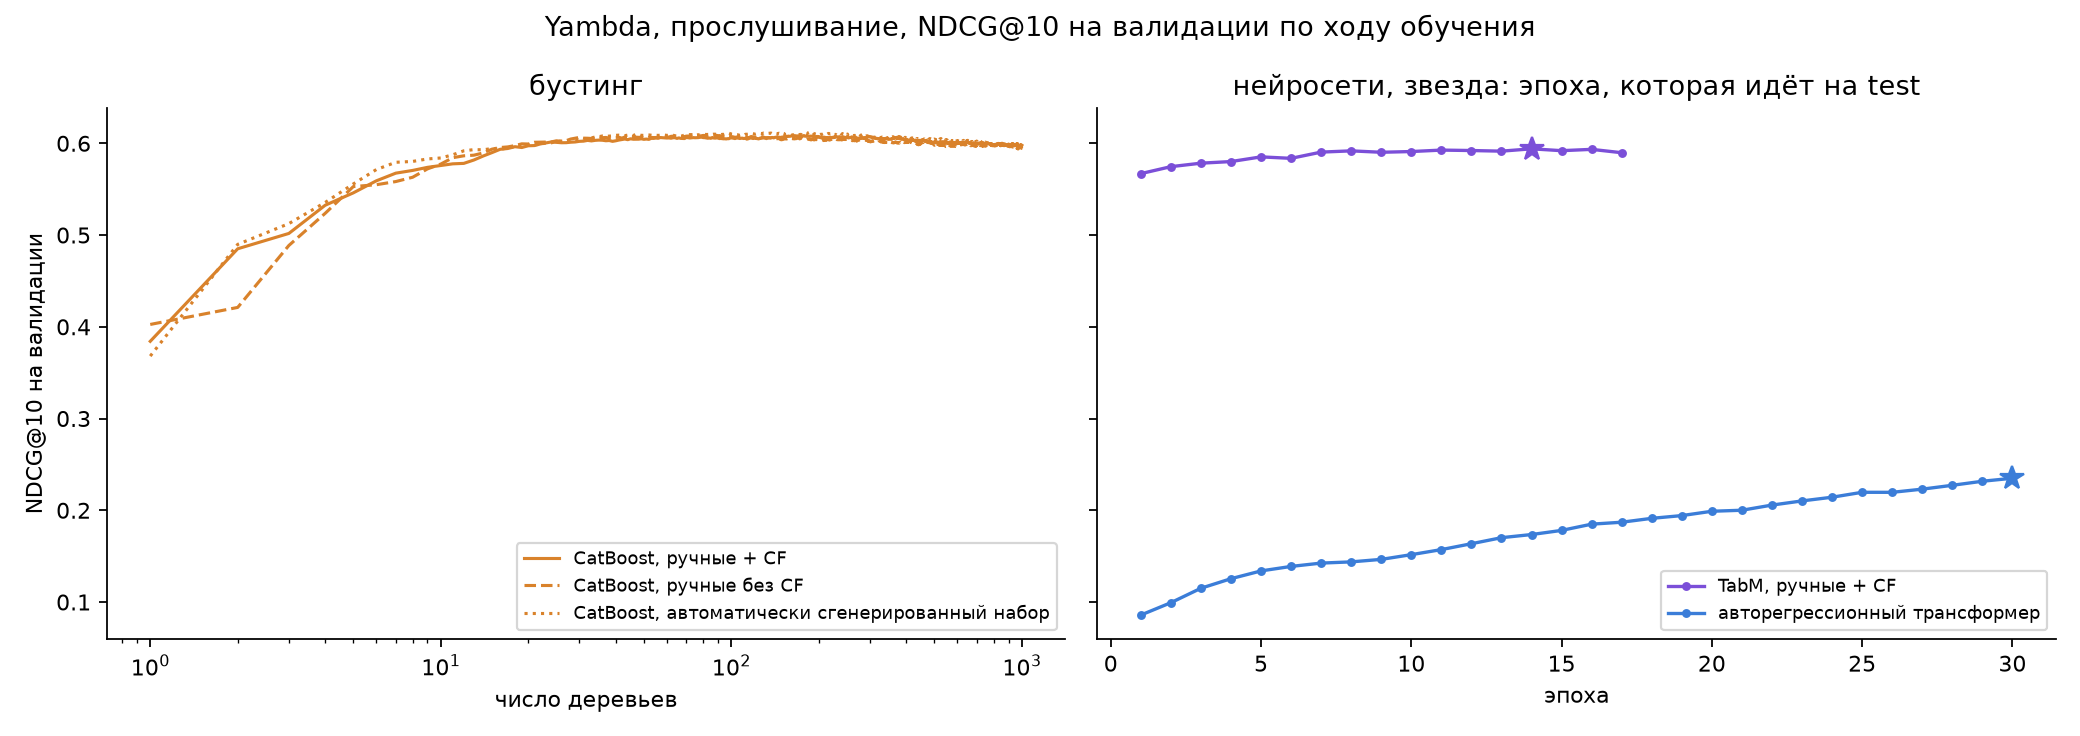
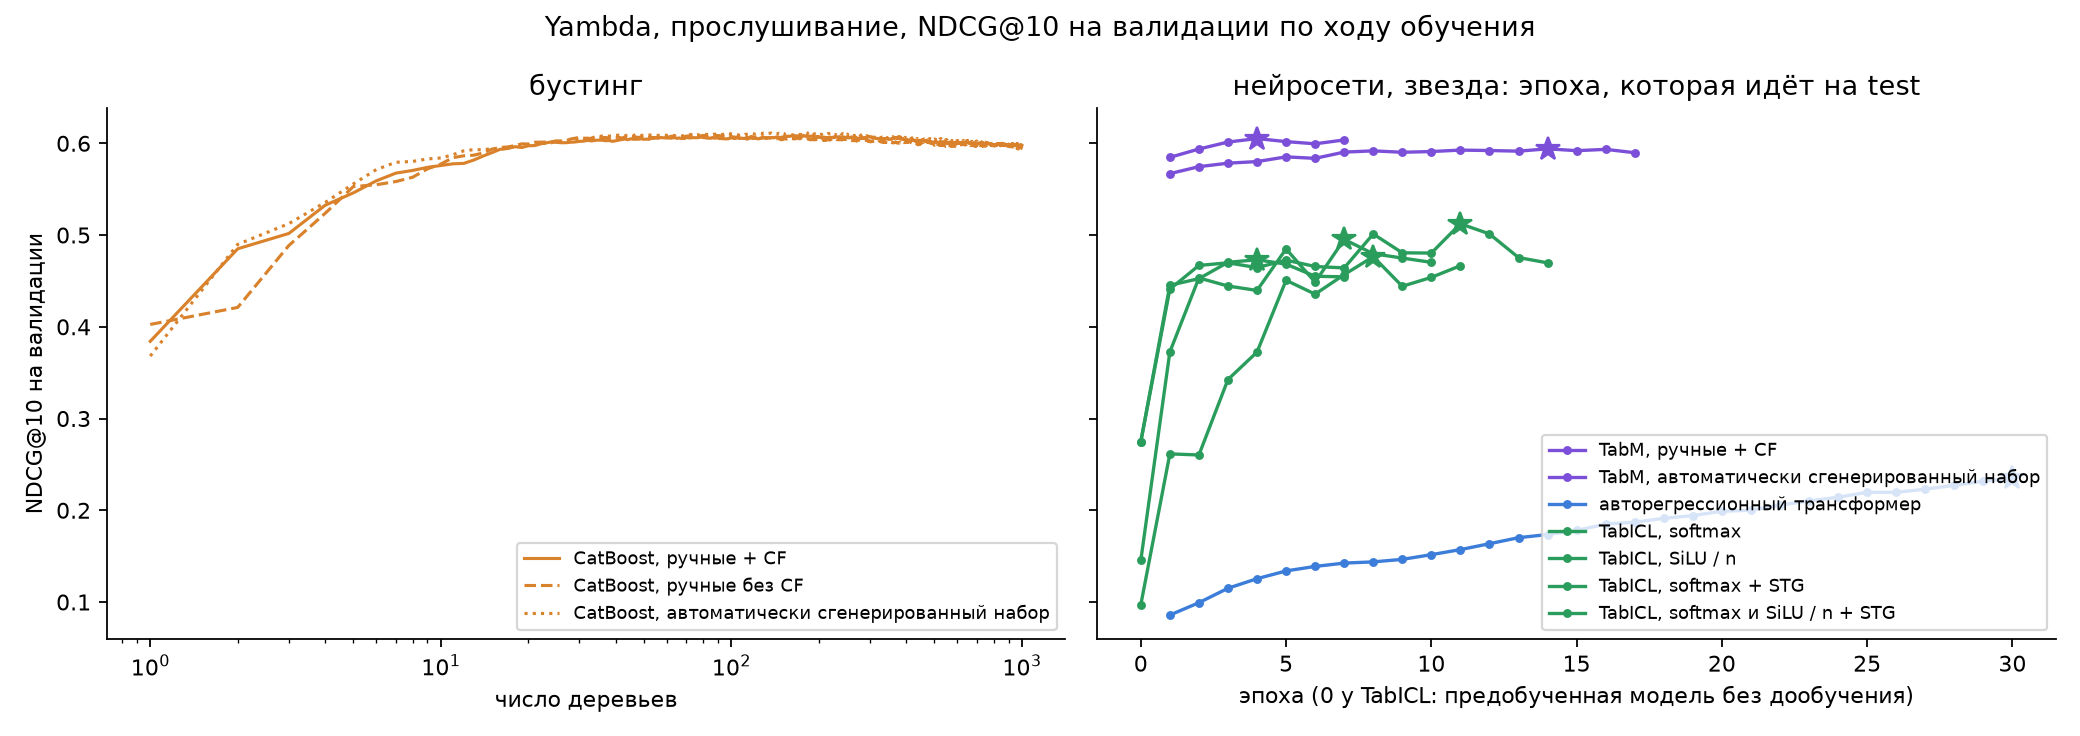
TabICL variants results, probes and conclusions

diff --git a/report.md b/report.md
@@ -88,9 +88,9 @@
 Все модели я сравнивал на одних и тех же 200 тестовых пользователях, у каждого 300 кандидатов. TabICL считается долго, поэтому тест у него только на них, и остальные модели я считал на тех же, чтобы сравнение было честным.
 ### KION
 ![Метрики на тесте KION](5_report/figures/kion_test_metrics.png)
-*Рис. 1. Метрики на тесте KION. Оранжевым бустинг, синим нейросети, серым популярность и EASE. В скобках число признаков.*
+*Рис. 1. Метрики на тесте KION. Оранжевым бустинг, фиолетовым TabM, синим трансформер, зелёным TabICL, серым популярность и EASE. В скобках число признаков.*
 
-На KION лучше всех бустинг со скорами EASE и kNN. Без этих скоров он опускается до уровня самого EASE, так что коллаборативная фильтрация даёт ему заметную часть качества. Автоматически сгенерированный набор признаков хуже ручного. TabM на тех же признаках, что и бустинг, чуть лучше бустинга. А вот трансформер над историей проиграл даже популярности.
+На KION лучше всех бустинг со скорами EASE и kNN. Без этих скоров он опускается до уровня самого EASE, так что коллаборативная фильтрация даёт ему заметную часть качества. Автоматически сгенерированный набор признаков хуже ручного. TabM на тех же признаках, что и бустинг, чуть лучше бустинга. А вот трансформер над историей проиграл даже популярности. TabICL лучше трансформера, но тоже чуть ниже популярности. Из его вариантов лучше всех обычный softmax: свёртка без нормировки, гейты и их сочетание дают меньше.
 
 ![Валидация по ходу обучения KION](5_report/figures/kion_val_curves.png)
 *Рис. 2. NDCG@10 на валидации по ходу обучения: слева по числу деревьев CatBoost, справа по эпохам нейросетей. Звездой отмечена эпоха, которая идёт на тест.*
@@ -99,6 +99,8 @@
 *Рис. 3. Линейные пробы на KION: R² ridge-регрессии из скрытого состояния пары в каждый ручной агрегат на отложенной половине пар.*
 
 Чтобы посмотреть, что трансформер считает сам, я поставил линейные пробы: ridge-регрессию из скрытого состояния пары в каждый ручной агрегат. Лучше всего читается число досмотров фильма за всё время. Его сеть выучивает через эмбеддинг и смещение фильма, которые обучаются на метках всех пользователей. Счётчики пользователя читаются хуже. Число событий пары почти не читается, хотя это просто количество одного фильма в истории пользователя. Доли жанра и страны в истории, то есть деление одного счётчика на другой, тоже почти не читаются.
+
+У TabICL пробы выглядят иначе. Счётчики пользователя и фильма читаются из его состояния хорошо, число событий пары тоже, потому что строки контекста с тем же фильмом и тем же пользователем стоят у него на входе. Почти всё это есть уже у предобученной модели до дообучения, то есть счёт он принёс из предобучения. Хуже всего читаются доли жанра и страны и конверсия фильма, и дообучение их почти не поднимает: деление он так и не собирает. Гейты на KION закрыли бит «смотрел ли пользователь этот фильм», вместе с ним из состояния пропало число событий пары, и этот вариант на тесте оказался худшим.
 
 ![Важность блоков признаков KION](5_report/figures/kion_importance.png)
 *Рис. 4. Просадка NDCG@10 на валидации, если перемешать одну колонку, просуммированная по блокам признаков. Модель CatBoost на ручных признаках без скоров EASE и kNN.*
@@ -111,7 +113,7 @@
 ![Метрики на тесте Yambda, лайк](5_report/figures/yambda_like_test_metrics.png)
 *Рис. 6. Метрики на тесте Yambda, таргет: лайк.*
 
-На Yambda разрыв ещё больше. На прослушиваниях все три варианта бустинга почти одинаковые и сильно впереди, TabM на тех же признаках немного отстаёт от них, за ними EASE, потом трансформер, и в самом конце популярность. Лайков на порядок меньше, чем прослушиваний, и там бустинг впереди уже в несколько раз, а EASE, трансформер и популярность почти неразличимы. Автоматически сгенерированный набор здесь работает так же, как мой обычный.
+На Yambda разрыв ещё больше. На прослушиваниях все три варианта бустинга почти одинаковые и сильно впереди, TabM на тех же признаках немного отстаёт от них, за ними EASE, потом трансформер, и в самом конце популярность. Лайков на порядок меньше, чем прослушиваний, и там бустинг впереди уже в несколько раз, а EASE, трансформер и популярность почти неразличимы. Автоматически сгенерированный набор у бустинга здесь работает так же, как мой обычный, а TabM на нём немного обходит бустинг на обоих таргетах. TabICL на прослушиваниях чуть хуже EASE и сильно лучше трансформера, а на лайках обходит EASE и трансформер в несколько раз, но всё равно примерно вдвое отстаёт от бустинга. Среди его вариантов на прослушиваниях гейты чуть лучше softmax, остальные хуже, а на лайках softmax лучше всех.
 
 ![Важность блоков признаков Yambda, прослушивание](5_report/figures/yambda_listen_importance.png)
 *Рис. 7. Важность блоков признаков на Yambda, прослушивание.*
@@ -127,7 +129,7 @@
 ![Линейные пробы Yambda, прослушивание](5_report/figures/yambda_listen_probes.png)
 *Рис. 10. Линейные пробы на Yambda, прослушивание.*
 
-И всё равно трансформер проигрывает бустингу в разы. По пробам число прослушиваний пары почти не читается из его состояния, хотя все эти прослушивания стоят у него на входе. Правда, на прослушиваниях трансформер не дошёл до плато, валидация росла до последней эпохи (рис. 9). Но к концу она прибавляла так мало, что до бустинга ему пришлось бы учиться ещё в несколько раз дольше.
+И всё равно трансформер проигрывает бустингу в разы. По пробам число прослушиваний пары почти не читается из его состояния, хотя все эти прослушивания стоят у него на входе. Правда, на прослушиваниях трансформер не дошёл до плато, валидация росла до последней эпохи (рис. 9). Но к концу она прибавляла так мало, что до бустинга ему пришлось бы учиться ещё в несколько раз дольше. У TabICL число прослушиваний пары читается, а доли исполнителя и альбома в истории и конверсия трека почти нет, как и на KION.
 ### Размер моделей
 ![Размер модели и качество](5_report/figures/sizes.png)
 *Рис. 11. NDCG@10 на тесте против числа обучаемых чисел. У CatBoost это число деревьев, умноженное на 64 листа и 6 порогов, у EASE матрица «товар на товар», у популярности одно число на товар.*
@@ -140,6 +142,8 @@
 
 Вторая – выразительность. На Yambda трансформер видит всю нужную историю, но не собирает из неё ни число повторов, ни доли, то есть ни количество, ни деление. Перебор агрегатов эти дыры не закрывает, и размер модели здесь ни при чём.
 
-Но проигрывать аггрегациям глубокая модель не обязана. Аггрегаты выигрывают, потому что человек заранее вложил в признаки знание о том, какие агрегаты нужны: сколько раз, за какое окно, какая доля. У глубокой модели такое знание может прийти из предобучения. TabICL предобучен на синтетических таблицах и приходит к задаче уже с прайорами: как выглядят распределения колонок, как признаки одной строки взаимодействуют между собой, как предсказать строку по похожим строкам рядом. Строки других пользователей в контексте дают ему статистику, которой нет в истории, свёртка без нормировки сохраняет количество, а гейты отключают бесполезные колонки. Модели без таких прайоров и без контекста, даже глубокие, проигрывают: трансформеру над историей приходится с нуля и по одному датасету учить и сами операции, и то, какие из них нужны. Поэтому учить нужно распределения на каждом уровне, а прайоры для этого брать из предобучения на синтетике.
+Но проигрывать аггрегациям глубокая модель не обязана. Аггрегаты выигрывают, потому что человек заранее вложил в признаки знание о том, какие агрегаты нужны: сколько раз, за какое окно, какая доля. У глубокой модели такое знание может прийти из предобучения. TabICL предобучен на синтетических таблицах и приходит к задаче уже с прайорами: как выглядят распределения колонок, как признаки одной строки взаимодействуют между собой, как предсказать строку по похожим строкам рядом. Строки других пользователей в контексте дают ему статистику, которой нет в истории, и счётчики пользователя, фильма и пары он собирает из них уже до дообучения. Поэтому TabICL обходит трансформер на всех трёх таргетах, а на лайках Yambda ещё и EASE. Модели без таких прайоров и без контекста, даже глубокие, проигрывают: трансформеру над историей приходится с нуля и по одному датасету учить и сами операции, и то, какие из них нужны.
+
+До бустинга TabICL всё же не дотягивает. Доли и конверсию, то есть деление, он не собирает ни после предобучения, ни после дообучения. Свёртка без нормировки и гейты, которые я добавил только на дообучении, лучше обычного softmax его не сделали, кроме гейтов на прослушиваниях, где разница маленькая. Значит, за несколько эпох на одном датасете эти прайоры не выучиваются, и закладывать их надо при предобучении на синтетике, где задач на счёт и деление много. Так что TabICL уже близко, но не настолько, чтобы заменить ручные признаки: дальше его нужно тюнить и предобучать на тех операциях, которые он сейчас не ловит.
 
 Спасибо за внимание, надеюсь на подробный фидбэк по работе.
